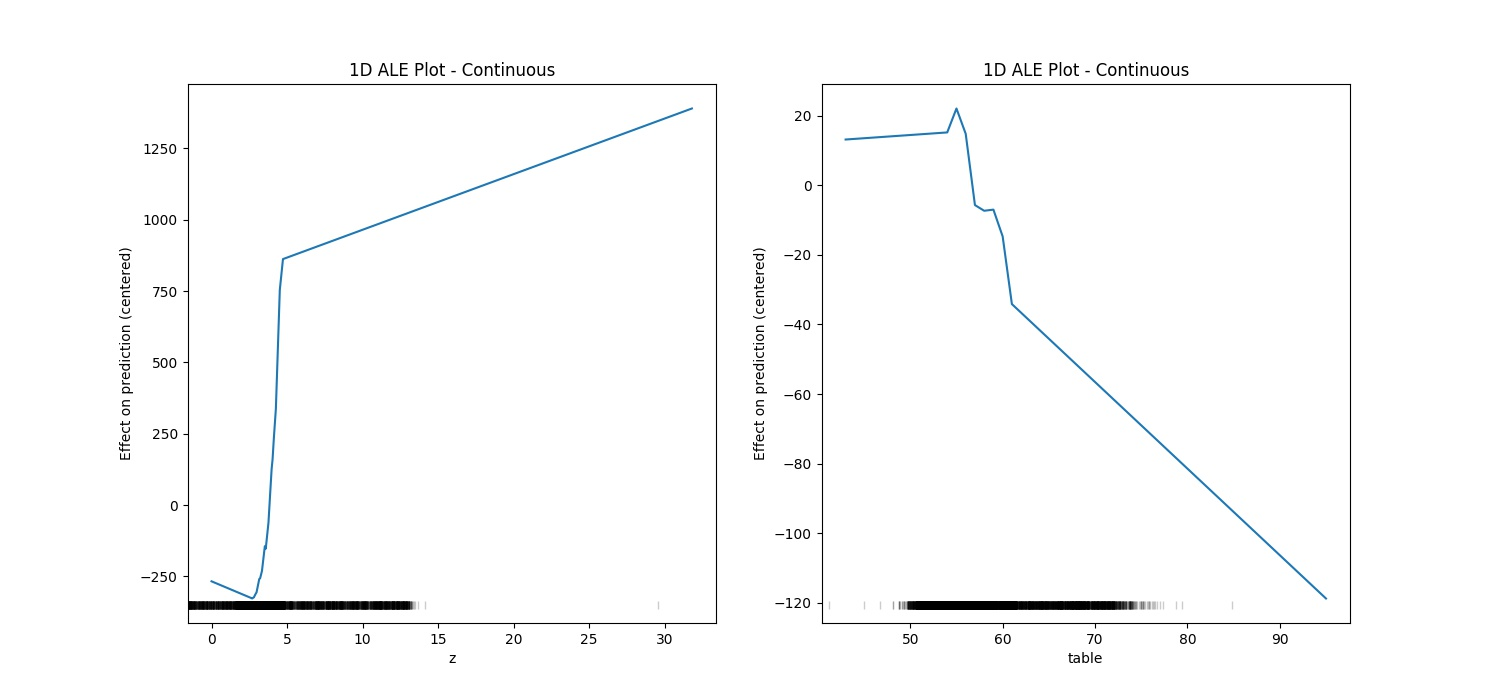
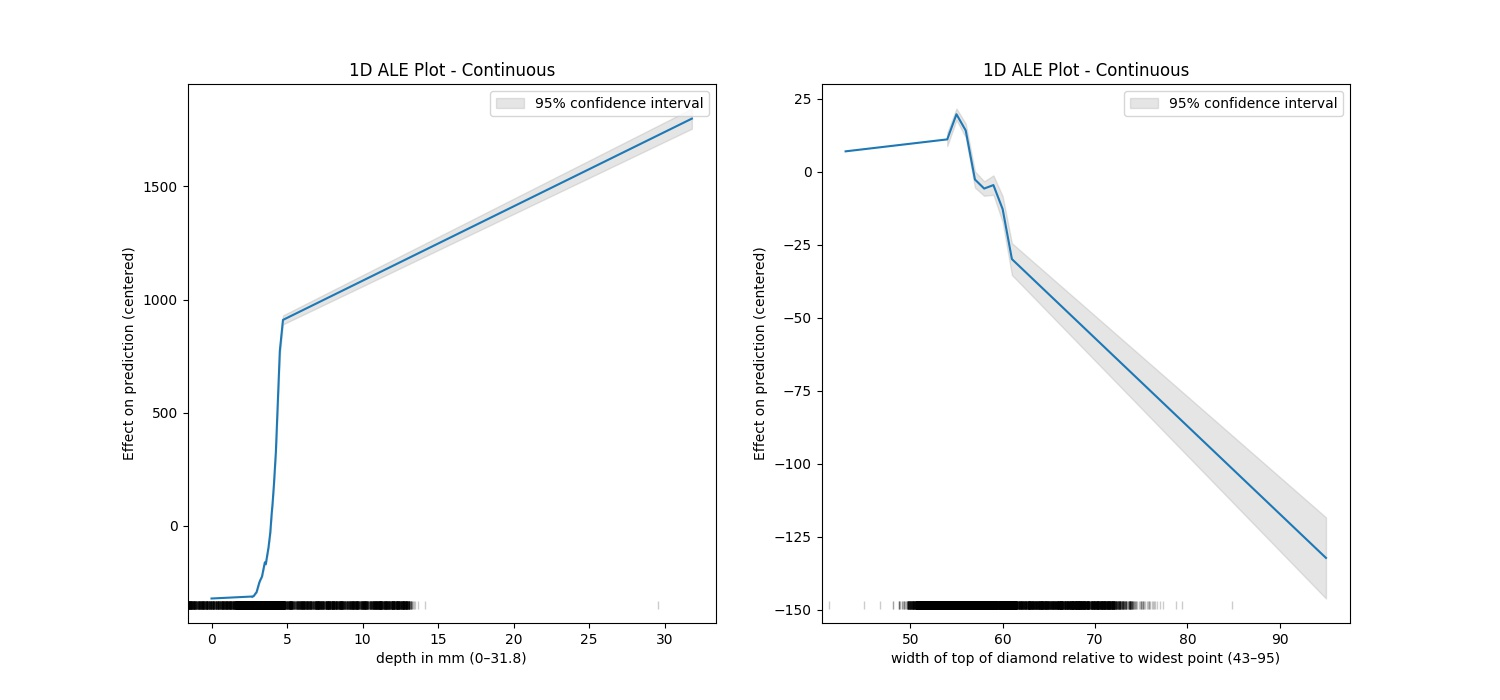
update README with the interpretations and the new function ale

diff --git a/README.md b/README.md
@@ -3,9 +3,15 @@
 **ALE**: Accumulated Local Effects <br>
 A python implementation of the ALE plots based on the implementation of the R package [ALEPlot](https://github.com/cran/ALEPlot/blob/master/R/ALEPlot.R)
 
+**Disclaimer:** This is still a work in progress project so the code still have some missing pieces. The end goal is to release as a Python package in pypi.
 
-## Usage:
-* Prepare data and train a model
+## Features:
+* Effect of one numeric feature with the option of computing a confidence interval of the effect
+* Effect of one discrete or categorical features
+* Effect of two numeric feature
+
+## Usage with examples:
+* First prepare data and train a model
 
 ```python
 import pandas as pd
@@ -32,52 +38,126 @@ X.loc[:,'cut'] = X.loc[:,'cut'].cat.codes
 X.loc[:, 'color'] = X.loc[:, 'color'].cat.codes
 X.loc[:, 'clarity'] = X.loc[:, 'clarity'].cat.codes
 
-model = RandomForestRegressor()
+model = RandomForestRegressor(random_state = 1345)
 model.fit(X, y)
 ```
-### 1D ALE plot for numeric continuous features 
+
+* import the generic function `ale` from the package
 
 ```python
-from PyALE import aleplot_1D_continuous, plot_1D_continuous_eff
-
-ale_res = aleplot_1D_continuous(X, model, 'carat', 20)
-plot_1D_continuous_eff(ale_res, X)
+from PyALE import ale
 ```
-![1D ALE Plot](examples/plots/1D_ALE_Plot_Ex.jpeg)
-
-### 1D ALE plot for numeric discrete features
+* **1D ALE plot for numeric continuous features** 
 
 ```python
-from PyALE import aleplot_1D_discrete, plot_1D_discrete_eff
+## 1D - continuous - no CI
+ale_eff = ale(
+    X=X, 
+    model=model,
+    feature='carat', 
+    feature_type='continuous',
+    grid_size=50, 
+    include_CI=False)
+```
+![1D ALE Plot](examples/plots/1D_ALE_Plot_Ex_noCI.jpeg)
 
-ale_res = aleplot_1D_discrete(X, model, 'carat', 20)
-plot_1D_discrete_eff(ale_res, X)
+The confidence intervals around the estimated effects are specially important when the sample data is small, which is why as an example plot for the confidence intervals we'll take a random sample of the dataset
+
+```python
+## 1D - continuous - with 95% CI
+random.seed(123)
+X_sample = X.loc[random.sample(X.index.to_list(), 1000), :]
+ale_eff = ale(
+    X=X_sample, 
+    model=model,
+    feature='carat', 
+    feature_type='continuous',
+    grid_size=50, 
+    include_CI=True,
+    C=0.95)
+```
+![1D ALE Plot with CI](examples/plots/1D_ALE_Plot_Ex_withCI.jpeg)
+
+* **1D ALE plot for numeric discrete features**
+
+```python
+## 1D - discrete
+ale_eff = ale(
+    X=X,
+    model=model, 
+    feature='cut',
+    feature_type='discrete')
 ```
 ![1D ALE Plot Disc](examples/plots/1D_ALE_Plot_Discrete_Ex.jpeg)
 
 
-### 2D ALE plot for numeric features
-```python
-from PyALE import aleplot_2D_continuous, plot_2D_continuous_eff
+* **2D ALE plot for numeric features**
 
-ale_res = aleplot_2D_continuous(X, model, ['z', 'table'], 100)
-plot_2D_continuous_eff(ale_res, contour=False)
+```python
+## 2D - continuous
+ale_eff = ale(
+    X=X,
+    model=model, 
+    feature=['z', 'table'],
+    grid_size=100)
 ```
 ![2D ALE Plot](examples/plots/2D_ALE_Plot_Ex.jpeg)
 
 Or sometimes it is better to take a look at the effect of each feature on its own but side by side
+For additional plot customization one can pass a figure and axis to the function
 
 ```python
-from PyALE import aleplot_1D_continuous, plot_1D_continuous_eff
-
-ale_res_1 = aleplot_1D_continuous(X, model, 'z', 20)
-ale_res_2 = aleplot_1D_continuous(X, model, 'table', 20)
-
-fig, (ax1, ax2) = plt.subplots(1, 2, figsize=(12, 8))
-fig, ax1 = plot_1D_continuous_eff(ale_res_1, X, fig, ax1)
-fig, ax2 = plot_1D_continuous_eff(ale_res_2, X, fig, ax2)
+## two 1D plots side by side
+import matplotlib.pyplot as plt
+fig, (ax1, ax2) = plt.subplots(1, 2, figsize=(15, 7))
+ale_res_1 = ale(
+    X=X,  model=model, feature='z', feature_type='continuous', grid_size=20, 
+    include_CI=True, C=0.95, 
+    plot=True, fig=fig, ax=ax1)
+ale_res_2 = ale(
+    X=X, model=model, feature='table', feature_type='continuous', grid_size=20, 
+    include_CI=True, C=0.95, 
+    plot=True, fig=fig, ax=ax2)
+# change x labels
+ax1.set_xlabel("depth in mm (0–31.8)")
+ax2.set_xlabel("width of top of diamond relative to widest point (43–95)")
 ```
 ![1D 2 ALE Plot](examples/plots/1D_ALE_Plot_2feat_Ex.jpeg)
+
+## Interpretation:
+
+```python
+random.seed(123)
+X_sample = X.loc[random.sample(X.index.to_list(), 1000), :]
+ale_eff = ale(
+    X=X_sample, 
+    model=model,
+    feature='carat', 
+    feature_type='continuous',
+    grid_size=5, 
+    include_CI=True,
+    C=0.95)
+```
+
+![1D ALE Plot](examples/plots/interpretation_Ex.jpeg)
+
+The algorithm cuts the feature to bins statring from the minimum value and ending with the maximum of the feature, then computes the average difference in prediction when the value of the feature moves between the edges of each bin, finally returns the centered cumulative sum of these averages (and the confidence interval of the differences - optional). 
+
+```python
+ale_res
+```
+|  carat  | size    |    eff       | lowerCI_95%   | upperCI_95%    |
+| ------  | ------  | -----------  | -----------   | -----------    |
+| 0.23    |   0.0   |-1837.001629  |          NaN  |        NaN     |
+| 0.38    | 215.0   |-1744.987885  | -1760.904293  |  -1729.071477  |
+| 0.56    | 189.0   |-1434.286959  | -1469.568429  |  -1399.005489  |
+| 0.90    | 201.0   |  205.224732  |   154.492631  |    255.956834  |
+| 1.18    | 195.0   | 1647.159091  |  1491.228257  |   1803.089926  |
+| 3.00    | 200.0   | 4637.027675  |  4307.809865  |   4966.245485  |
+
+What interests us when interpreting the results is the difference in the effect between the edges of the bins, in this example one can say that the value of the prediction increases by approximately 2990 (`4637 - 1647`) when the carat increases from 1.18 to 3.00, as can be seen in the last two lines. With this in mind we can see that the values of the confidence interval only makes sense starting from the second value (the upper edge of the first bin) and could also be compared with the eff value of the previous row as to give an idea of how much this difference can fluctuate (e.g., for the bin `(1.18, 3.00]` between 2660 and 3319 with 95% certainty).
+
+The lower edge of the first bin is in fact the minimum value of the feature in the given data, and it belongs to the first bin (unlike the following bins which contain the upper edge but not the lower). The size column contains the number of data points in the bin ending with the feature value in the corresponding row and starting with value before it (e.g., the bin `(1.18, 3.00]` has `200` data points).
 
 ### Ref.
 * https://cran.r-project.org/web/packages/ALEPlot/vignettes/AccumulatedLocalEffectPlot.pdf
